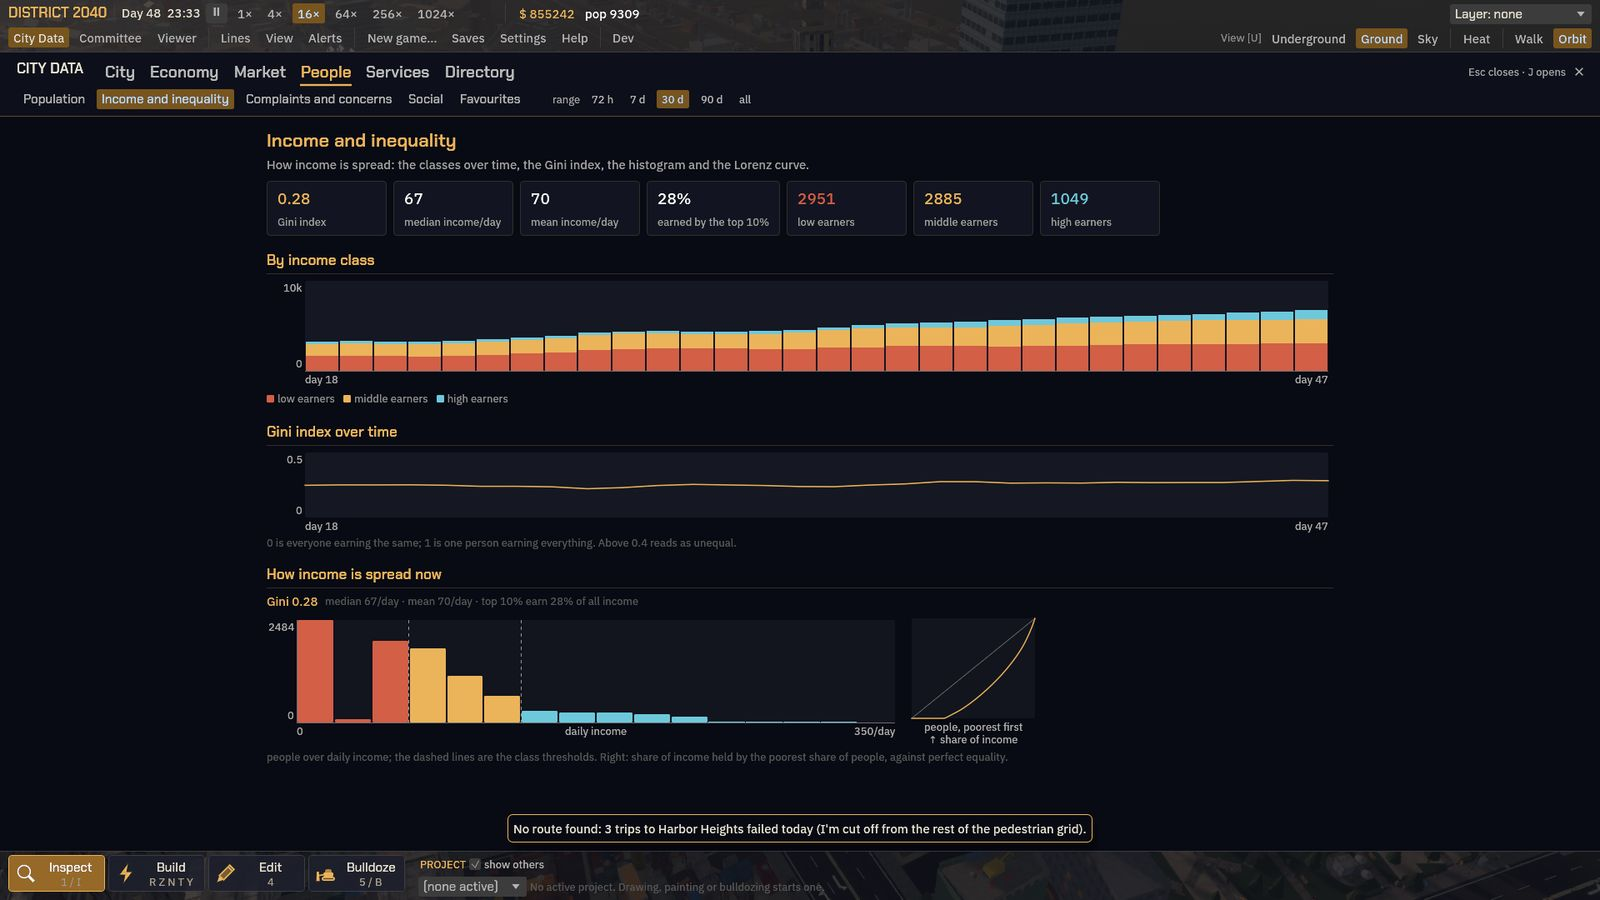
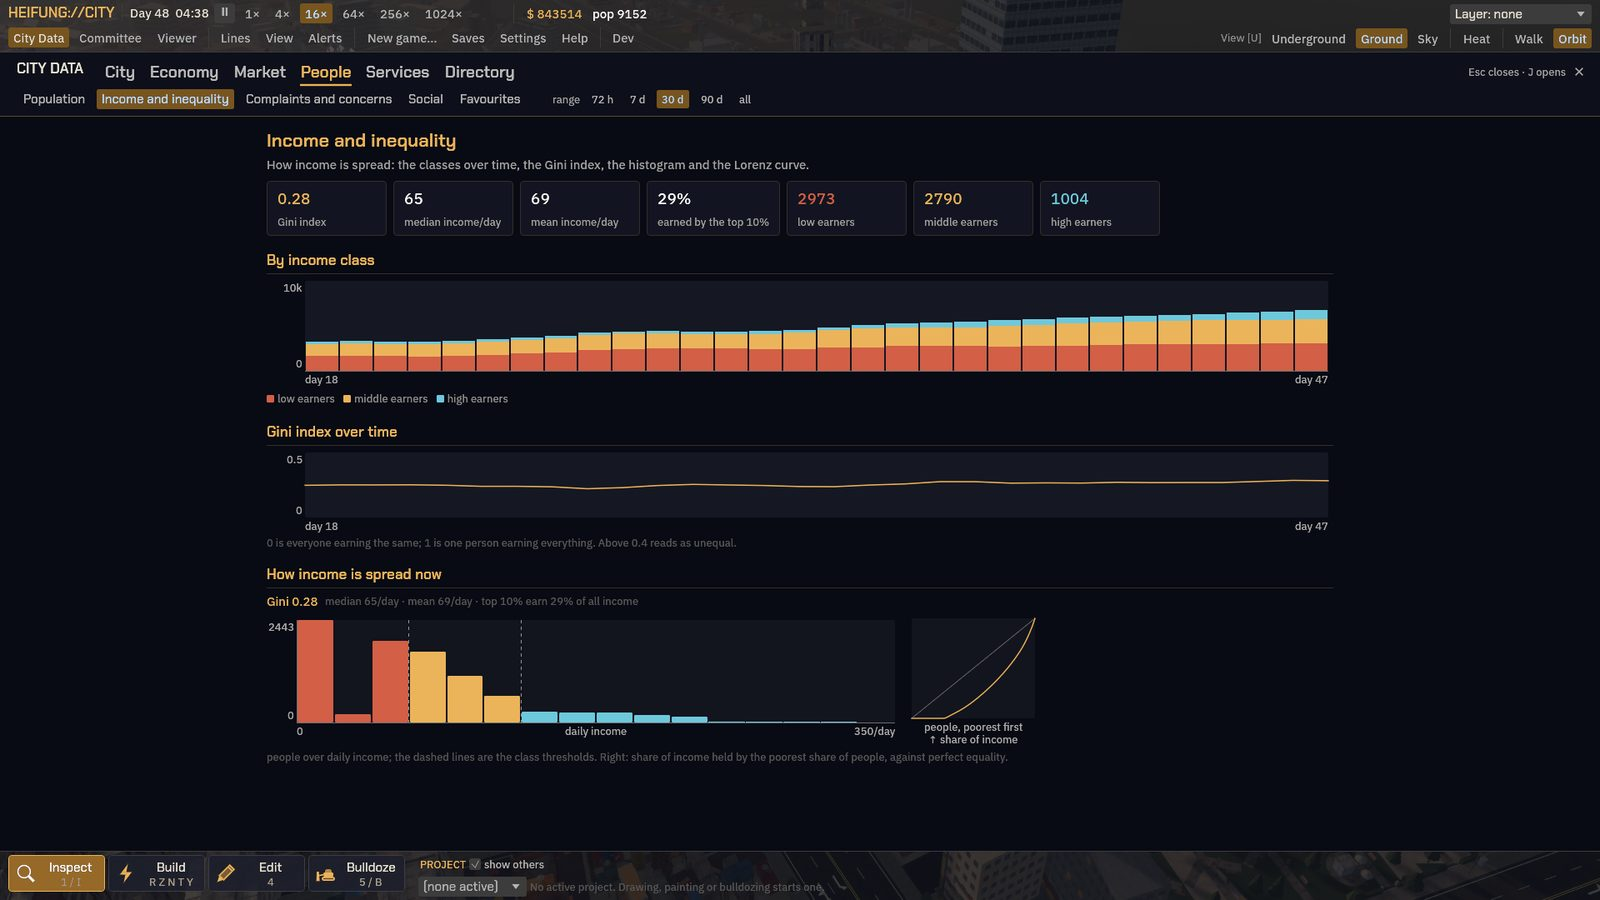
Site: UI shots with the HEIFUNG://CITY top bar, captions

diff --git a/site/index.html b/site/index.html
@@ -192,8 +192,8 @@
 
     <article class="feature">
       <figure class="shot">
-        <a href="img/ui-person.jpg"><img src="img/ui-person.jpg" alt="The person pane for a citizen: traits, looks, home and work, money, a passing thought, the places they like or avoid, and the people they know." loading="lazy" width="1600" height="900"></a>
-        <figcaption>Anyone in town: their traits, purse, thoughts, favourite places and the ones they never go back to.</figcaption>
+        <a href="img/ui-person.jpg"><img src="img/ui-person.jpg" alt="The person pane for a citizen sleeping rough: traits, looks, money, a passing thought, the places they like or avoid, and their memories, newest first: evicted, unable to afford a rent, pitching a tent." loading="lazy" width="1600" height="900"></a>
+        <figcaption>Anyone in town: their purse, their thoughts, the places they love and avoid, and what has happened to them.</figcaption>
       </figure>
       <div>
         <h3>Citizens who remember</h3>

diff --git a/todo.md b/todo.md
@@ -884,5 +884,5 @@ Not yet in the list (the stuck police cars, footbridge braking, the racer are fi
 
 ## Open-source release
 
-- [x] Release page and README for HEIFUNG://CITY (Harvey 2026-10-28: "a cool github-page ... with screenshots of different cities and different features ... nod to the references we started off with") → DONE [site]: static page in `site/` (no build step, local OFL font, no trackers) deployed by `.github/workflows/pages.yml`; README rewritten with the full feature list, build/run, controls, references (Citybound as the starting fork, ideas only) and licences; LICENSE-MIT and LICENSE-APACHE at the root; 35 screenshots from the game (`site/img`, 4.6 MB with the page). Photo mode for clean shots: F10 or remote `photo_mode {on, size}` (hides every egui pass's drawing, `ui/photo.rs`). Left: retake the UI shots once the rebrand's wordmark is in (junction-editor, ui-build, ui-citydata, ui-person, ui-committee); swap `site/img/logo.png` for the new logo.
+- [x] Release page and README for HEIFUNG://CITY (Harvey 2026-10-28: "a cool github-page ... with screenshots of different cities and different features ... nod to the references we started off with") → DONE [site]: static page in `site/` (no build step, local OFL font, no trackers) deployed by `.github/workflows/pages.yml`; README rewritten with the full feature list, build/run, controls, references (Citybound as the starting fork, ideas only) and licences; LICENSE-MIT and LICENSE-APACHE at the root; 35 screenshots from the game (`site/img`, 4.6 MB with the page). Photo mode for clean shots: F10 or remote `photo_mode {on, size}` (hides every egui pass's drawing, `ui/photo.rs`). The UI shots were taken after the rebrand merged (HEIFUNG://CITY in the top bar); `site/img/logo.png` is the new logo at 780 px. Left: a shot of the air taxis; the page goes live once Pages is set to GitHub Actions.
 - [ ] Crash in fresh generated cities around day 5-6: `invalid SlotMap key` at `traffic/crosswalk.rs:244` (`siren_near` reads a lane's `cars` list that still names a removed car). Seen four times in game on `generate_city` (grid_plaza seed 1 desert, twin_centres seed 2 islands temperate twice, ...) while stepping through the remote API; a save taken just before and loaded again runs on past it (the stale entry is not in the save), and headless `stale_lane_probe` (nd_procgen example) on `gen:grid_plaza:1` finds no stale entry in 9,000 ticks, so something on the app side (or a path the headless run never takes) leaves the lane list stale. Crash logs and the autosave in `O:/nd_targets/site/crash_repro`.
